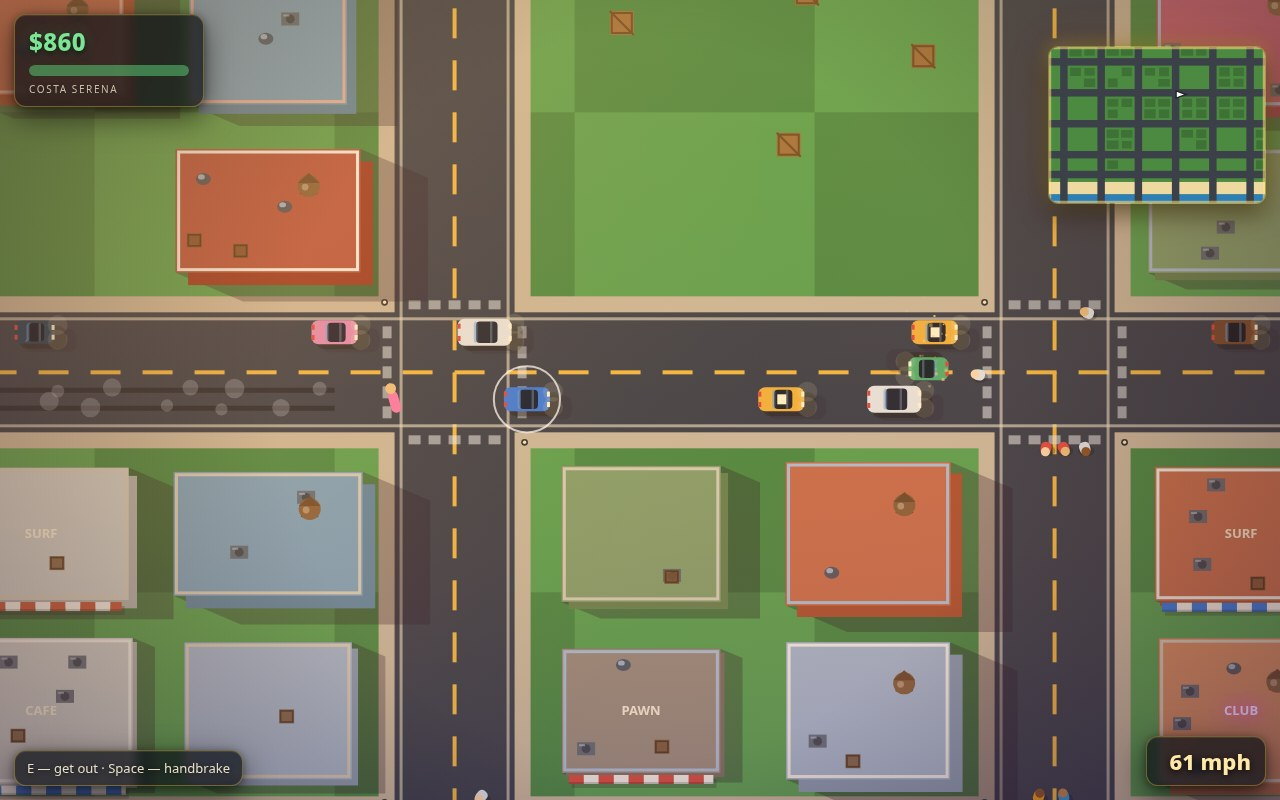
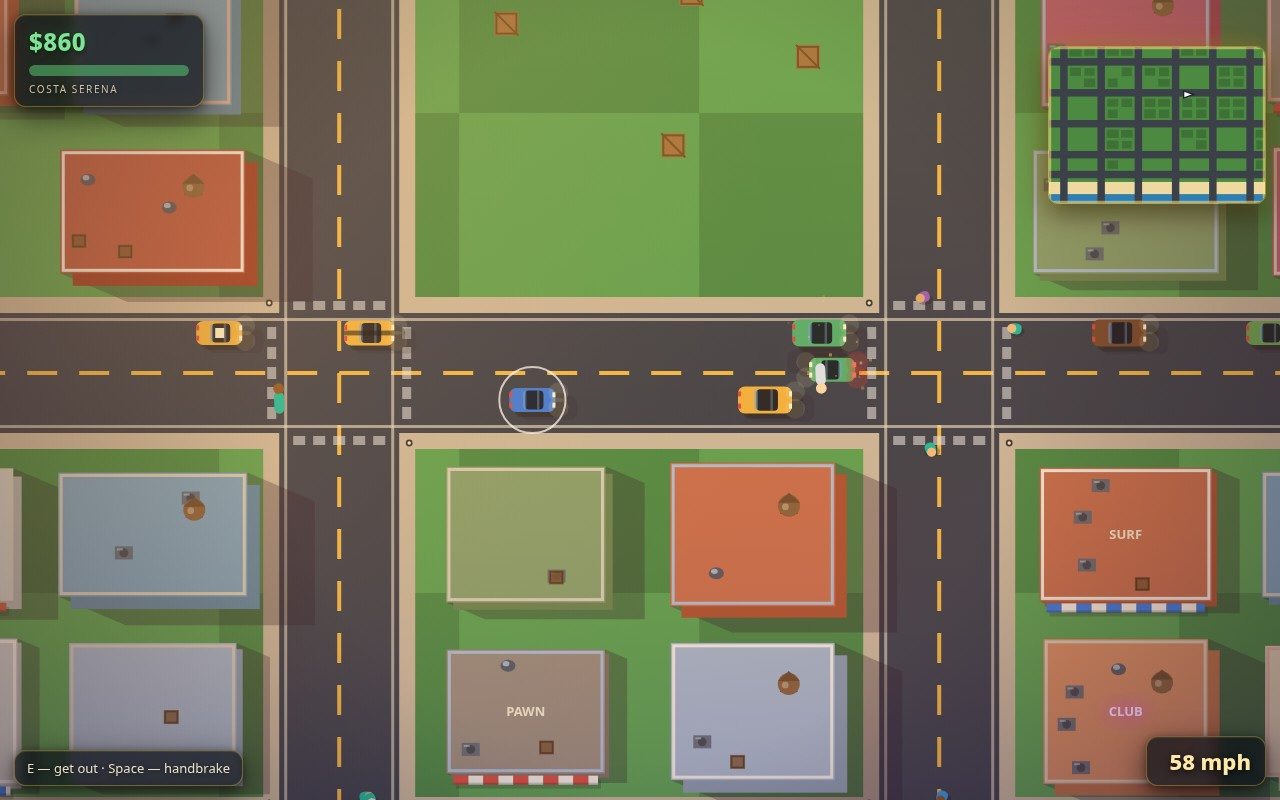
V3: restore v1 screenshot staging on the polished visuals

diff --git a/game/src/shots.js b/game/src/shots.js
@@ -3,37 +3,12 @@
 // flow, plays it for a moment, and raises window.__shotReady so the capture
 // tool knows the frame is composed. Scenes: chase, mission, drive, title.
 
-import { S, addFloater } from './state.js';
+import { S } from './state.js';
 import { makeCar } from './vehicles.js';
 import { WORLD, WANTED } from './config.js';
 import { starsForHeat } from './police.js';
 import { acceptMission } from './missions.js';
 import { spawnPed } from './pedestrians.js';
-import { rng } from './random.js';
-
-// A trail of tyre smoke behind a fast car, seeded by hand: the staged scenes
-// run without input, so no wheelspin happens on its own. The puffs are given
-// long lives so they survive the warm-up frames and hang in the frozen frame.
-function seedSmokeTrail(x, y, back, count = 16) {
-  for (let i = 0; i < count; i++) {
-    const life = 1.7;
-    S.particles.push({
-      x: x - i * (back / count) + rng.range(-7, 7),
-      y: y + (i % 2 === 0 ? -9 : 9) + rng.range(-5, 5),
-      vx: rng.range(-110, -50), vy: rng.range(-12, 12),
-      life, maxLife: life, color: '#dfe3e6', size: rng.range(7, 13),
-      round: true, alphaMul: 0.55,
-    });
-  }
-}
-
-// Twin skid lines behind the rear wheels, as if the car just swung into frame.
-function seedSkids(x, y, back) {
-  for (let x0 = x - 30; x0 > x - back; x0 -= 30) {
-    S.skidmarks.push({ x1: x0, y1: y - 9, x2: x0 - 30, y2: y - 9, life: 14 });
-    S.skidmarks.push({ x1: x0, y1: y + 9, x2: x0 - 30, y2: y + 9, life: 14 });
-  }
-}
 
 // The staged scenes play live for a moment before the freeze, and ambient
 // traffic from boot wanders the whole map — a crossing car in the wrong
@@ -44,13 +19,6 @@ function purgeAmbient(cx, cy, radius = 1000) {
     const c = S.cars[i];
     if (c.kind === 'traffic' && Math.hypot(c.x - cx, c.y - cy) < radius) S.cars.splice(i, 1);
   }
-}
-
-function cruiser(x, y, angle, speed, phase) {
-  const cop = makeCar(x, y, angle, { kind: 'police', color: '#eef1f4', model: { name: 'cruiser', len: 48, wid: 25 } });
-  cop.ai = { hunt: { x: 2280, y: 2087 }, lightPhase: phase, searchAt: 0 };
-  cop.speed = speed;
-  return cop;
 }
 
 export function setupShot(name) {
@@ -64,39 +32,28 @@ export function setupShot(name) {
   S.mode = 'playing';
 
   if (name === 'chase') {
-    // The cover: a four-star flight along the coastal avenue at sunset — the
-    // player flying east in a red muscle car, tyre smoke hanging over its
-    // skid lines, three cruisers strung out on its tail, a braking sedan
-    // ahead, and the beach, the bay and the pier filling the bottom of frame.
-    // The cops start well back: with no driver input the player's car coasts
-    // down while cruisers accelerate, and a tight start ends in a pile-up.
-    purgeAmbient(2400, 2087);
-    const car = makeCar(2400, 2087, 0, { kind: 'parked', color: '#d94f3d', model: { name: 'muscle', len: 50, wid: 25 } });
+    // Mid-pursuit downtown: player flooring it east, two cruisers on the tail,
+    // three stars, and the final mission's escape objective on the banner.
+    purgeAmbient(1440, 1267);
+    const car = makeCar(1440, 1267, 0, { kind: 'parked', color: '#d94f3d', model: { name: 'muscle', len: 50, wid: 25 } });
     car.driver = 'player';
-    car.speed = 430; // staged scenes play ~1s before the freeze; start hot
+    car.speed = 305;
     car.stolen = true;
     p.car = car;
     p.x = car.x; p.y = car.y; p.angle = 0;
     p.cash = 2740;
-    S.wanted.heat = WANTED.THRESHOLDS[4] + 40;
+    S.wanted.heat = WANTED.THRESHOLDS[3] + 30;
     S.wanted.stars = starsForHeat(S.wanted.heat);
     S.wanted.lastCrimeAt = S.time;
-    S.fx.starPulse = 1; // the HUD stars sit mid-swell in the frozen frame
-    S.copSpawnTimer = 999; // the three staged cruisers are the whole pursuit
-    cruiser(2130, 2036, -0.04, 310, 2.8);
-    cruiser(2010, 2087, 0, 300, 1.2);
-    cruiser(1910, 2118, 0.05, 285, 4.4);
-    const ahead = makeCar(2870, 2087, 0, { kind: 'traffic', color: '#3d7bd9' });
-    ahead.ai = { axis: 'h', dir: 1, laneCoord: 2087, target: { x: 3240, y: 2087 }, cruise: 150, panic: 2 };
-    ahead.speed = 120;
-    const slow = makeCar(2950, 2087, 0, { kind: 'traffic', color: '#e8e6df', model: { name: 'van', len: 54, wid: 27 } });
-    slow.ai = { axis: 'h', dir: 1, laneCoord: 2087, target: { x: 3240, y: 2087 }, cruise: 40, panic: 0 };
-    slow.speed = 35; // the sedan ahead is standing on its brakes for this van
-    const oncoming = makeCar(2700, 2033, Math.PI, { kind: 'traffic', color: '#53b06a' });
-    oncoming.ai = { axis: 'h', dir: -1, laneCoord: 2033, target: { x: 840, y: 2033 }, cruise: 165, panic: 0 };
-    oncoming.speed = 150;
-    seedSkids(car.x + 320, car.y, 560);
-    seedSmokeTrail(car.x + 300, car.y, 520, 22);
+    const cop1 = makeCar(1246, 1267, 0, { kind: 'police', color: '#eef1f4', model: { name: 'cruiser', len: 48, wid: 25 } });
+    cop1.ai = { hunt: { x: p.x, y: p.y }, lightPhase: 1.2, searchAt: 0 };
+    cop1.speed = 290;
+    const cop2 = makeCar(1085, 1213, 0.06, { kind: 'police', color: '#eef1f4', model: { name: 'cruiser', len: 48, wid: 25 } });
+    cop2.ai = { hunt: { x: p.x, y: p.y }, lightPhase: 4.4, searchAt: 0 };
+    cop2.speed = 235;
+    const ahead = makeCar(1985, 1267, 0, { kind: 'traffic', color: '#3d7bd9' });
+    ahead.ai = { axis: 'h', dir: 1, laneCoord: 1240 + WORLD.LANE, target: { x: 2640, y: 1267 }, cruise: 150, panic: 2 };
+    ahead.speed = 140;
     S.mission.index = 4;
     S.objective = 'Escape! Reach the end of the pier';
     S.camera.x = p.x; S.camera.y = p.y;
@@ -104,15 +61,11 @@ export function setupShot(name) {
 
   if (name === 'mission') {
     // On foot on the coastal sidewalk, first job active, the kiosk beacon down
-    // the shore to the west, a "+$250" payout still floating where the last
-    // errand ended, beach and palms in frame, people and cars around.
+    // the shore to the west, beach and palms in frame, people and cars around.
     p.x = 762; p.y = 1992; p.angle = Math.PI;
-    p.cash = 370;
+    p.cash = 120;
     makeCar(952, 2022, 0, { kind: 'parked', color: '#e58bb1' });
     makeCar(1120, 2098, Math.PI, { kind: 'parked', color: '#e8e6df' });
-    const passing = makeCar(1080, 2087, 0, { kind: 'traffic', color: '#16a3a3' });
-    passing.ai = { axis: 'h', dir: 1, laneCoord: 2087, target: { x: 2040, y: 2087 }, cruise: 150, panic: 0 };
-    passing.speed = 145;
     spawnPed(S.world, 700, 1984);
     spawnPed(S.world, 838, 2002);
     spawnPed(S.world, 660, 2150);
@@ -120,36 +73,25 @@ export function setupShot(name) {
     S.mission.index = 0;
     S.mission.state = 'offered';
     acceptMission();
-    addFloater(p.x + 6, p.y - 30, '+$250', '#7be495');
     S.camera.x = p.x; S.camera.y = p.y;
   }
 
   if (name === 'drive') {
-    // Fast downtown run: the player closing on a taxi that is braking hard
-    // behind a slow van, brake lights flaring, oncoming traffic in the west
-    // lane, and the avenue's buildings throwing long sunset shadows. The heat
-    // buffer sits deep negative so a stray warm-up collision somewhere in the
-    // city cannot hand this calm scene a wanted star.
-    purgeAmbient(1800, 767);
-    const car = makeCar(1800, 767, 0, { kind: 'parked', color: '#3d7bd9', model: { name: 'sedan', len: 46, wid: 24 } });
+    // Fast downtown run, traffic ahead, buildings either side.
+    purgeAmbient(1980, 767);
+    const car = makeCar(1980, 767, 0, { kind: 'parked', color: '#3d7bd9', model: { name: 'sedan', len: 46, wid: 24 } });
     car.driver = 'player';
-    car.speed = 430;
+    car.speed = 385;
     car.stolen = true;
     p.car = car;
     p.x = car.x; p.y = car.y; p.angle = 0;
     p.cash = 860;
-    S.wanted.heat = -400;
-    const t1 = makeCar(2320, 767, 0, { kind: 'traffic', color: '#f2b33d', model: { name: 'taxi', len: 46, wid: 24 } });
+    const t1 = makeCar(2330, 767, 0, { kind: 'traffic', color: '#f2b33d' });
     t1.ai = { axis: 'h', dir: 1, laneCoord: 767, target: { x: 3240, y: 767 }, cruise: 165, panic: 0 };
     t1.speed = 150;
-    const van = makeCar(2395, 767, 0, { kind: 'traffic', color: '#e8e6df', model: { name: 'van', len: 54, wid: 27 } });
-    van.ai = { axis: 'h', dir: 1, laneCoord: 767, target: { x: 3240, y: 767 }, cruise: 90, panic: 0 };
-    van.speed = 90; // the taxi rides its brakes behind this van
     const t2 = makeCar(2560, 713, Math.PI, { kind: 'traffic', color: '#53b06a' });
     t2.ai = { axis: 'h', dir: -1, laneCoord: 713, target: { x: 840, y: 713 }, cruise: 165, panic: 0 };
     t2.speed = 155;
-    seedSkids(car.x + 150, car.y, 380);
-    seedSmokeTrail(car.x + 120, car.y, 300, 10);
     S.objective = '';
     S.camera.x = p.x; S.camera.y = p.y;
   }
